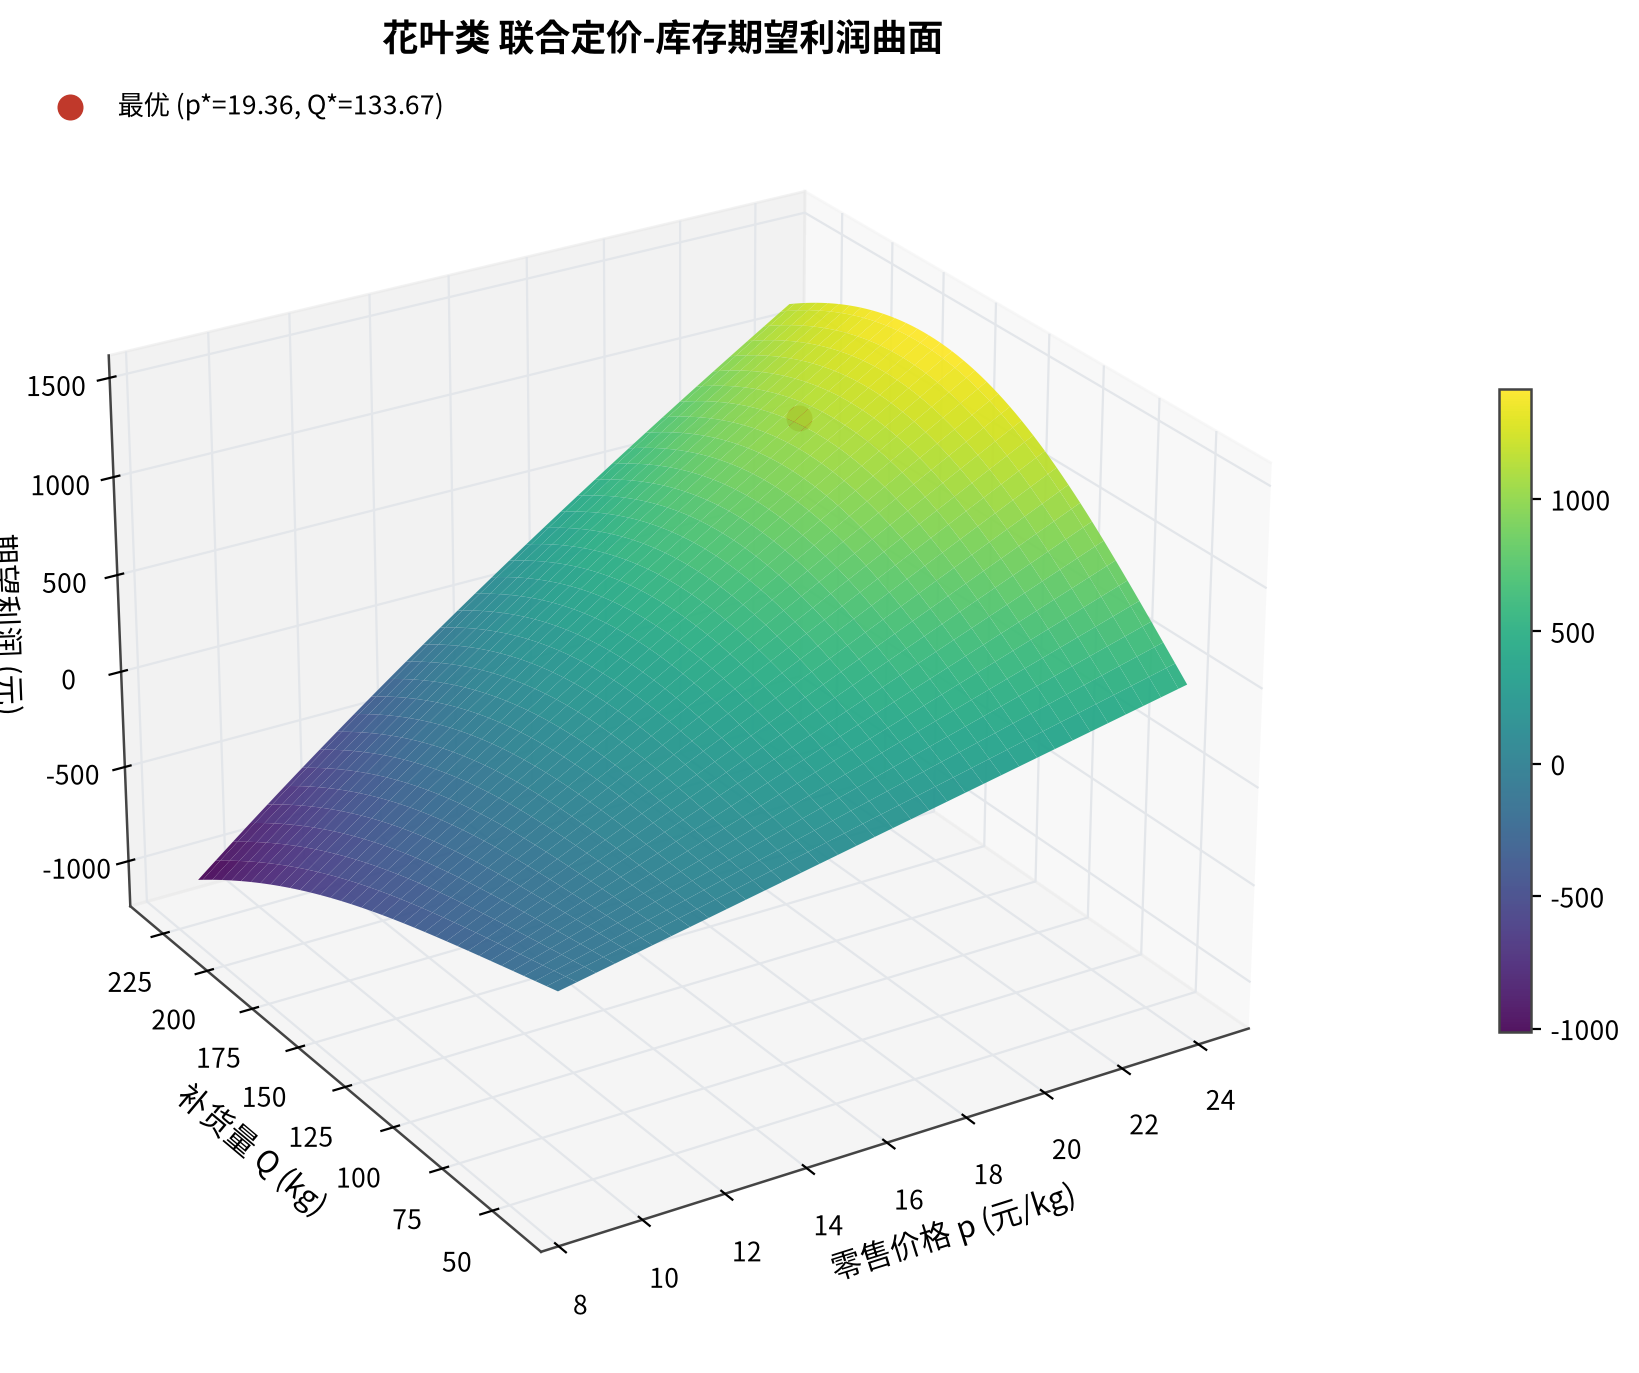
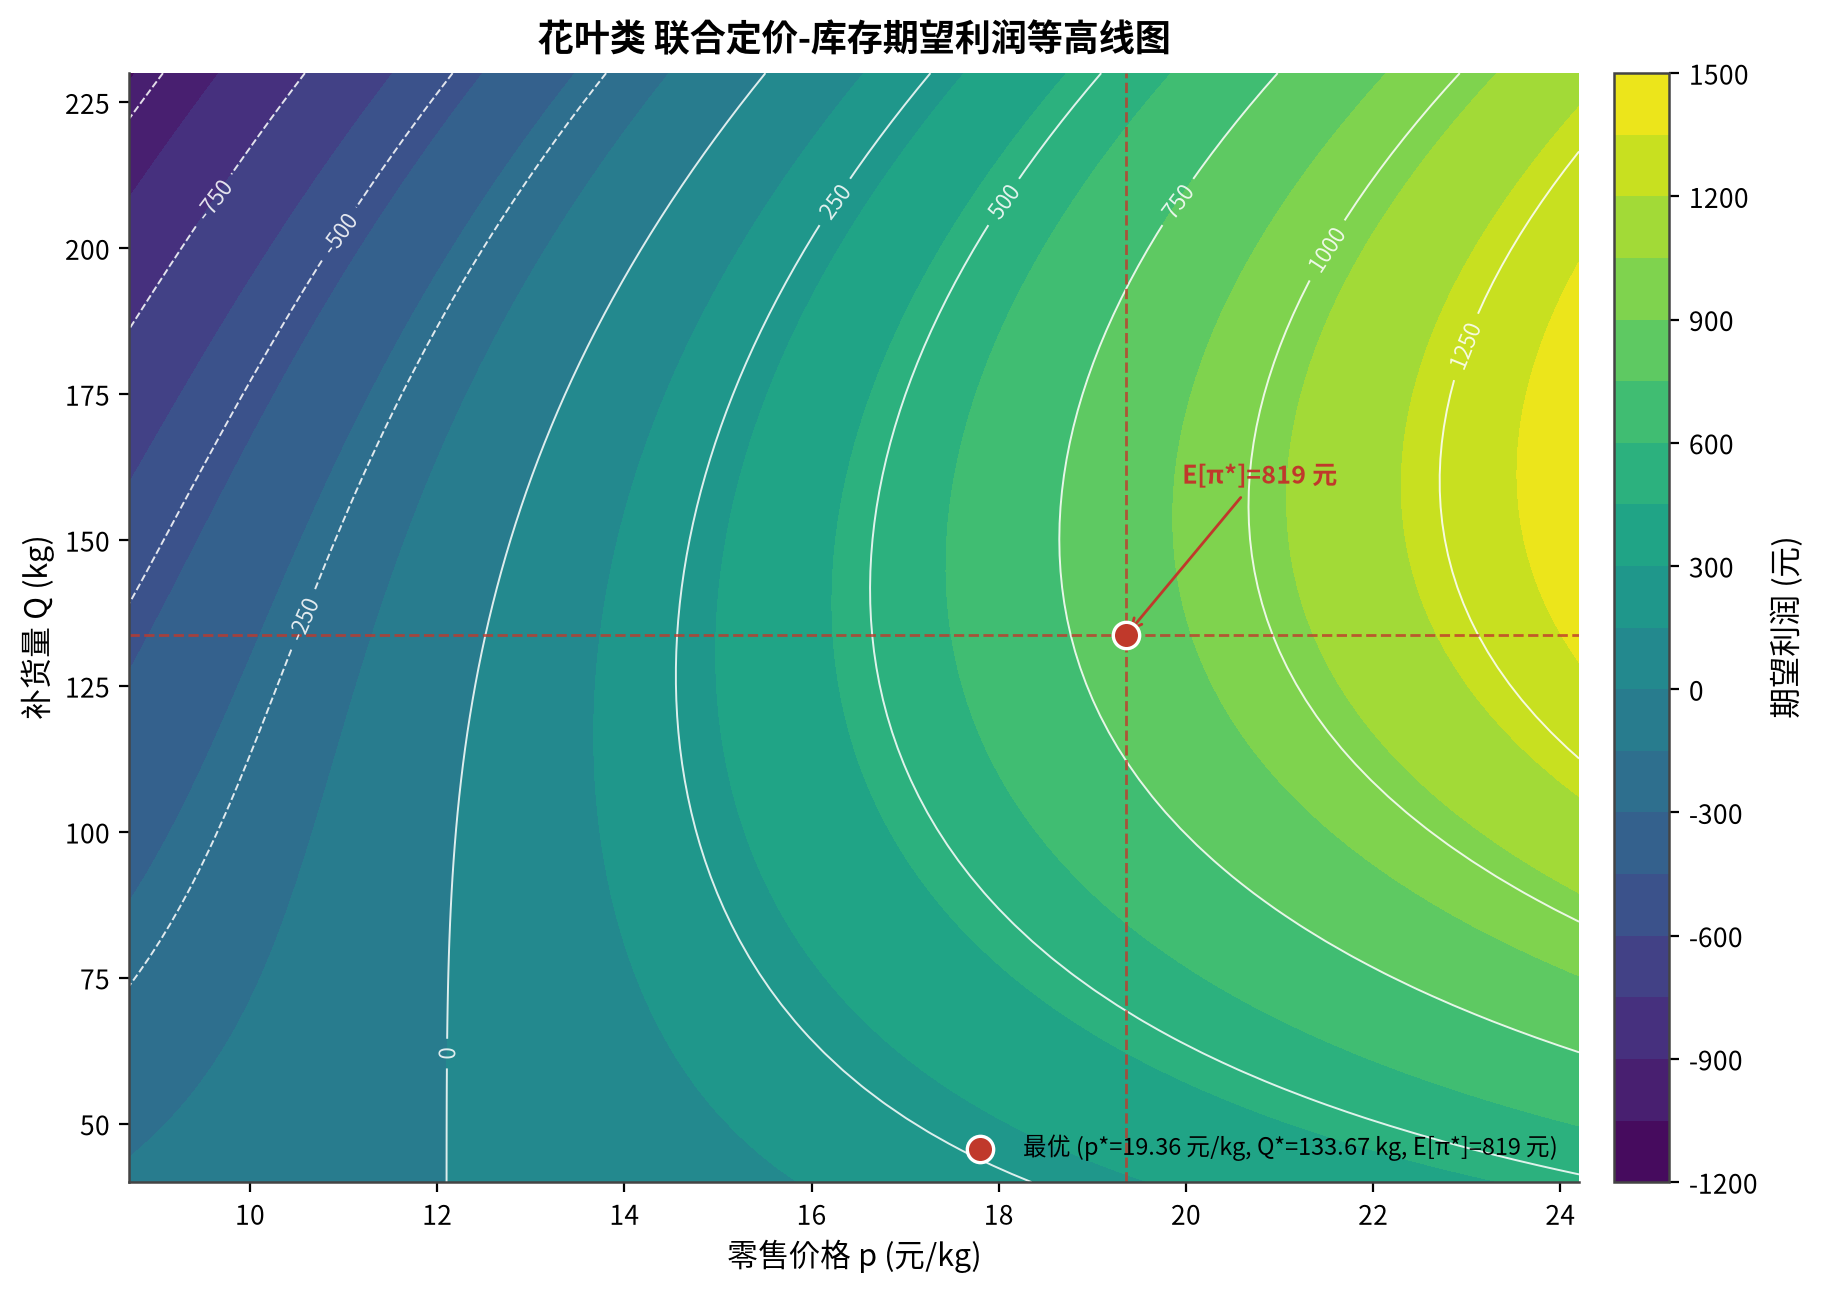
优化 fig12：三维利润曲面改为平面等高线图，可直接读出数值
- contourf+contour(带数值标签)替代 3D surface，避免遮挡、便于读数
- 标注最优操作点 (p*=19.36, Q*=133.67) 及其期望利润，并加价/量参考虚线
- 标题改为「联合定价-库存期望利润等高线图」

diff --git a/20260621CC/paper/build_part2.py b/20260621CC/paper/build_part2.py
@@ -164,19 +164,33 @@ for i in range(PP.shape[0]):
         z = (np.log(q) - mu) / sigma
         Emin = mu_d * norm.cdf((np.log(q) - mu - sigma**2) / sigma) + q * (1 - norm.cdf(z))
         profits[i, j] = p * Emin - cost * q - 0.1 * cost * (q - Emin)
-from mpl_toolkits.mplot3d import Axes3D  # noqa
-fig = C.plt.figure(figsize=(10, 7))
-ax = fig.add_subplot(111, projection="3d")
-surf = ax.plot_surface(PP, QQ, profits, cmap="viridis", alpha=0.92,
-                       linewidth=0, antialiased=True)
-ax.scatter([p_star], [Q_star], [profits.max()], color="#C0392B", s=70,
-           label=f"最优 (p*={p_star}, Q*={Q_star})")
-ax.set_xlabel("零售价格 p (元/kg)"); ax.set_ylabel("补货量 Q (kg)")
-ax.set_zlabel("期望利润 (元)")
-ax.set_title(f"{cat} 联合定价-库存期望利润曲面", fontweight="bold")
-ax.view_init(elev=26, azim=-122)
-ax.legend(loc="upper left")
-fig.colorbar(surf, ax=ax, shrink=0.5, pad=0.1)
+def _exp_profit(p, q):
+    mu_d = a_scale * p ** eps
+    mu = np.log(max(mu_d, 1e-3)) - sigma ** 2 / 2
+    z = (np.log(q) - mu) / sigma
+    Emin = mu_d * norm.cdf((np.log(q) - mu - sigma**2) / sigma) + q * (1 - norm.cdf(z))
+    return p * Emin - cost * q - 0.1 * cost * (q - Emin)
+profit_opt = _exp_profit(p_star, Q_star)
+fig, ax = C.plt.subplots(figsize=(9.6, 6.6))
+filled = ax.contourf(PP, QQ, profits, levels=20, cmap="viridis")
+cs = ax.contour(PP, QQ, profits, levels=10, colors="white",
+                linewidths=0.7, alpha=0.85)
+ax.clabel(cs, inline=True, fontsize=8, fmt="%.0f")
+cbar = fig.colorbar(filled, ax=ax, pad=0.02)
+cbar.set_label("期望利润 (元)")
+# 最优点及其参考线
+ax.axvline(p_star, color="#C0392B", ls="--", lw=1.0, alpha=0.8)
+ax.axhline(Q_star, color="#C0392B", ls="--", lw=1.0, alpha=0.8)
+ax.scatter([p_star], [Q_star], color="#C0392B", s=90, zorder=6,
+           edgecolors="white", linewidths=1.2,
+           label=f"最优 (p*={p_star} 元/kg, Q*={Q_star} kg, E[π*]={profit_opt:.0f} 元)")
+ax.annotate(f"E[π*]={profit_opt:.0f} 元",
+            xy=(p_star, Q_star), xytext=(p_star + 0.6, Q_star + 26),
+            fontsize=9, color="#C0392B", fontweight="bold",
+            arrowprops=dict(arrowstyle="->", color="#C0392B", lw=1.0))
+C.style_ax(ax, f"{cat} 联合定价-库存期望利润等高线图",
+           "零售价格 p (元/kg)", "补货量 Q (kg)")
+ax.legend(loc="lower right", fontsize=8.5, framealpha=0.9)
 fig.tight_layout(); C.save(fig, "fig12_profit_surface.png")
 
 # ============================ 图13  鲁棒 vs 风险中性 ============================